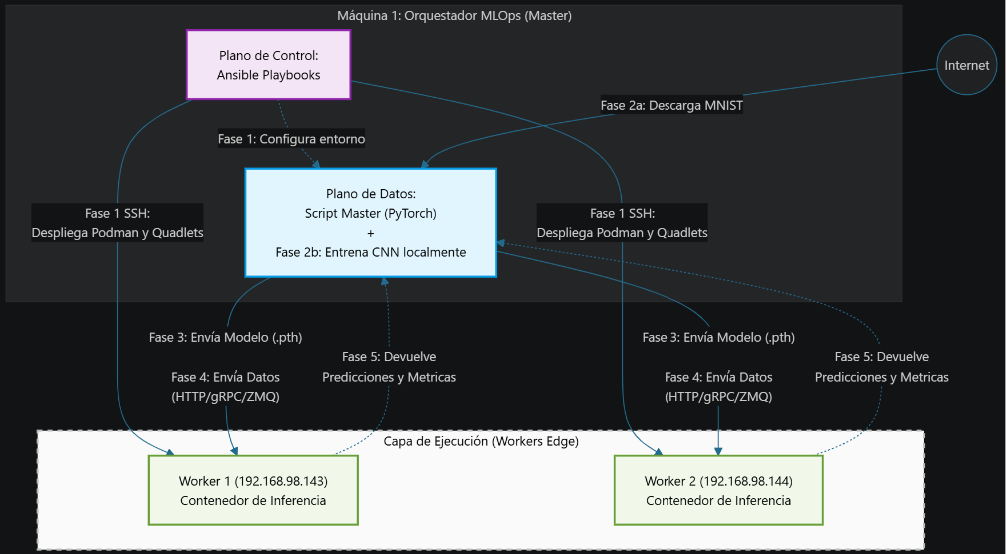
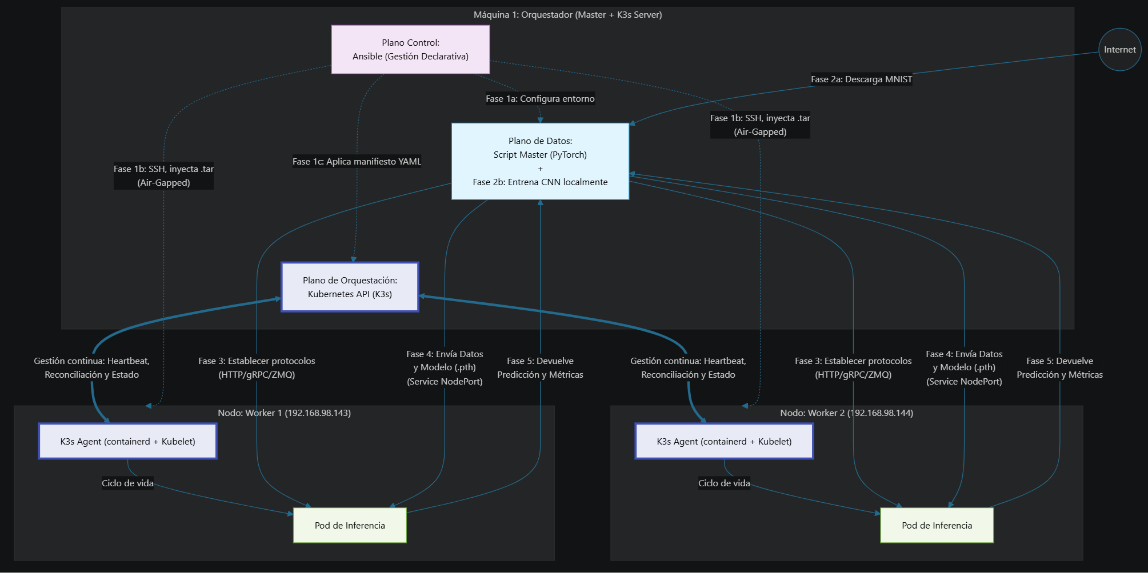
feat: add flowchart documentation for K3s orchestration and update existing flow diagrams

diff --git a/entrega-4/assets/flow.md b/entrega-4/assets/flow.md
@@ -2,9 +2,9 @@
 flowchart TD
     Internet((Internet))
 
-    subgraph Maquina1 ["Máquina 1: Orquestador MLOps (Master)"]
+    subgraph Maquina1 ["Máquina 1: Orquestador MLOps (Master K3s)"]
         direction TB
-        Ansible["Plano de Control:<br>Ansible Playbooks"]
+        Ansible["Plano de Control:<br>Ansible + kubectl API"]
         Padre["Plano de Datos: 
         Script Master (PyTorch) 
         + 
@@ -13,19 +13,26 @@ flowchart TD
         Ansible -. "Fase 1: Configura entorno" .-> Padre
     end
 
-    subgraph NodosEdge ["Capa de Ejecución (Workers Edge)"]
-        direction LR
-        Hijo1["Worker 1 (192.168.98.143)
-        Contenedor de Inferencia"]
-        Hijo2["Worker 2 (192.168.98.144)
-        Contenedor de Inferencia"]
+    subgraph NodosEdge ["Capa de Ejecución (Workers Edge K3s)"]
+        direction TB
+        K8sService{"Red Virtual CNI (Flannel)<br>Servicio K8s (NodePort 30000)"}
+        
+        subgraph Workers ["Nodos Físicos"]
+            direction LR
+            Hijo1["Node-a (192.168.98.143)
+            Pod de Inferencia (containerd)"]
+            Hijo2["Node-b (192.168.98.144)
+            Pod de Inferencia (containerd)"]
+        end
+        
+        K8sService --> Hijo1
+        K8sService --> Hijo2
     end
 
-    %% FASE 1: Aprovisionamiento
-    Ansible -- "Fase 1 SSH: 
-    Despliega Podman y Quadlets" --> Hijo1
-    Ansible -- "Fase 1 SSH: 
-    Despliega Podman y Quadlets" --> Hijo2
+    %% FASE 1: Aprovisionamiento K3s
+    Ansible -- "Fase 1 (Air-Gapped): 
+    Inyecta Imagen OCI (k3s ctr)
+    y Aplica Manifiestos YAML" --> Workers
 
     %% FASE 2: Dataset
     Internet -- "Fase 2a: Descarga MNIST" --> Padre
@@ -34,12 +41,7 @@ flowchart TD
     Padre -- "Fase 3: Envía Modelo (.pth)
 
     Fase 4: Envía Datos 
-    (HTTP/gRPC/ZMQ)" --> Hijo1
-
-    Padre -- "Fase 3: Envía Modelo (.pth)
-
-    Fase 4: Envía Datos 
-    (HTTP/gRPC/ZMQ)" --> Hijo2
+    (HTTP/gRPC/ZMQ)" --> K8sService
 
     %% FASE 5: FLUJO DE VUELTA (Línea Punteada para evitar colapso del motor)
     Hijo1 -. "Fase 5: Devuelve 
@@ -53,9 +55,11 @@ flowchart TD
     classDef datos fill:#e1f5fe,stroke:#039be5,stroke-width:2px,color:#000;
     classDef worker fill:#f1f8e9,stroke:#689f38,stroke-width:2px,color:#000;
     classDef edgeCapa fill:#fafafa,stroke:#bdbdbd,stroke-width:2px,stroke-dasharray: 5 5,color:#000;
+    classDef k8sService fill:#e3f2fd,stroke:#1565c0,stroke-width:2px,color:#000;
 
     class Ansible control;
     class Padre datos;
     class Hijo1,Hijo2 worker;
-    class NodosEdge edgeCapa;
+    class NodosEdge,Workers edgeCapa;
+    class K8sService k8sService;
 ```

diff --git a/entrega-4/assets/flow-v2.md b/entrega-4/assets/flow-v2.md
@@ -1,0 +1,59 @@
+``` mermaid
+flowchart TD
+    Internet((Internet))
+
+    subgraph Maquina1 ["Máquina 1: Orquestador (Master + K3s Server)"]
+        direction TB
+        Ansible["Plano Control:<br>Ansible (Gestión Declarativa)"]
+        KubeAPI["Plano de Orquestación:<br>Kubernetes API (K3s)"]
+        Padre["Plano de Datos:<br>Script Master (PyTorch)<br>+<br>Fase 2b: Entrena CNN localmente"]
+    end
+
+    Ansible ~~~ Padre
+    Padre ~~~ KubeAPI
+    
+
+    subgraph Worker2 ["Nodo: Worker 2 (192.168.98.144)"]
+        K3sB["K3s Agent (containerd + Kubelet)"]
+        Hijo2["Pod de Inferencia"]
+        K3sB -- "Ciclo de vida" --> Hijo2
+    end
+
+    subgraph Worker1 ["Nodo: Worker 1 (192.168.98.143)"]
+        K3sA["K3s Agent (containerd + Kubelet)"]
+        Hijo1["Pod de Inferencia"]
+        K3sA -- "Ciclo de vida" --> Hijo1
+    end
+
+    %% FASE 1: Aprovisionamiento (Ansible SIEMPRE discontinua)
+    Ansible -. "Fase 1a: Configura entorno" .-> Padre
+    Ansible -. "Fase 1b: SSH, inyecta .tar<br>(Air-Gapped)" .-> Worker1
+    Ansible -. "Fase 1b: SSH, inyecta .tar<br>(Air-Gapped)" .-> Worker2
+    Ansible -. "Fase 1c: Aplica manifiesto YAML" .-> KubeAPI
+
+    %% FASE DE ORQUESTACIÓN (Kubernetes activo)
+    KubeAPI <==>|Gestión continua: Heartbeat, <br>Reconciliación y Estado| K3sA
+    KubeAPI <==>|Gestión continua: Heartbeat, <br>Reconciliación y Estado| K3sB
+
+    %% FASE 2: Dataset
+    Internet -- "Fase 2a: Descarga MNIST" --> Padre
+
+    %% FASES 3: Establecer protocolos
+    Padre -- "Fase 3: Establecer protocolos<br>(HTTP/gRPC/ZMQ)" --> Hijo1
+    Padre -- "Fase 3: Establecer protocolos<br>(HTTP/gRPC/ZMQ)" --> Hijo2
+
+    %% FASES 4: Fujo de ida
+    Padre -- "Fase 4: Envía Datos<br>y Modelo (.pth)<br>(Service NodePort)" --> Hijo1
+    Padre -- "Fase 4: Envía Datos<br>y Modelo (.pth)<br>(Service NodePort)" --> Hijo2
+
+    %% FASES 5: Fujo de vuelta
+    Hijo1 -- "Fase 5: Devuelve<br>Predicción y Métricas" --> Padre
+    Hijo2 -- "Fase 5: Devuelve<br>Predicción y Métricas" --> Padre
+
+    %% Estilos
+    classDef control fill:#f3e5f5,stroke:#8e24aa,color:#000;
+    classDef datos fill:#e1f5fe,stroke:#039be5,color:#000;
+    classDef worker fill:#f1f8e9,stroke:#689f38,color:#000;
+    classDef kube fill:#e8eaf6,stroke:#3f51b5,stroke-width:3px,color:#000;
+    class Ansible control; class Padre datos; class Hijo1,Hijo2 worker; class KubeAPI,K3sA,K3sB kube;
+```

diff --git a/entrega-3/assets/flow-v2.md b/entrega-3/assets/flow-v2.md
@@ -1,0 +1,57 @@
+``` mermaid
+flowchart TD
+    Internet((Internet))
+
+    subgraph Maquina1 ["Máquina 1: Orquestador (Master)"]
+        direction TB
+        Ansible["Plano Control:<br>Ansible (Gestión Imperativa)"]
+        
+        Padre["Plano de Datos: 
+        Script Master (PyTorch) 
+        + 
+        Fase 2b: Entrena CNN localmente"]
+    end
+
+    Padre ~~~ NodeA
+    Padre ~~~ NodeB
+
+    subgraph NodeB ["Nodo Worker 2: 192.168.98.144"]
+        Sys1(("Systemd<br>(Gestor Local)"))
+        Hijo2["Contenedor Podman"]
+        Sys1 -- "Ciclo de vida<br>(Local)" --> Hijo2
+    end
+    
+    subgraph NodeA ["Nodo Worker 1: 192.168.98.143"]
+        Sys2(("Systemd<br>(Gestor Local)"))
+        Hijo1["Contenedor Podman"]
+        Sys2 -- "Ciclo de vida<br>(Local)" --> Hijo1
+    end
+
+
+    %% FASE 1: Aprovisionamiento
+    Ansible -. "Fase 1a: Configura entorno" .-> Padre
+    Ansible -. "Fase 1b SSH:<br> Despliega Podman y Quadlets" .-> NodeB
+    Ansible -. "Fase 1b SSH:<br> Despliega Podman y Quadlets" .-> NodeA
+
+    %% FASE 2: Modelo IA
+    Internet -- "Fase 2a: Descarga MNIST" --> Padre
+
+    %% FASES 3: Establecer protocolos
+    Padre -- "Fase 3: Establecer protocolos<br>(HTTP/gRPC/ZMQ)" --> Hijo2
+    Padre -- "Fase 3: Establecer protocolos<br>(HTTP/gRPC/ZMQ)" --> Hijo1
+
+    %% FASES 4: Fujo de ida
+    Padre -- "Fase 4: Envía Datos<br>y Modelo (.pth)" --> Hijo2
+    Padre -- "Fase 4: Envía Datos<br>y Modelo (.pth)" --> Hijo1
+
+    %% FASES 5: Fujo de vuelta
+    Hijo2 -- "Fase 5: Devuelve<br>Predicción y Métricas" --> Padre
+    Hijo1 -- "Fase 5: Devuelve<br>Predicción y Métricas" --> Padre
+
+    classDef control fill:#f3e5f5,stroke:#8e24aa,color:#000;
+    classDef datos fill:#e1f5fe,stroke:#039be5,color:#000;
+    classDef worker fill:#f1f8e9,stroke:#689f38,color:#000;
+    classDef sys fill:#fff9c4,stroke:#fbc02d,color:#000;
+    class Ansible control; class Padre datos; class Hijo1,Hijo2 worker; class Sys1,Sys2 sys;
+    
+```

diff --git a/entrega-3/assets/flow.md b/entrega-3/assets/flow.md
@@ -24,6 +24,7 @@ flowchart TD
     %% FASE 1: Aprovisionamiento
     Ansible -- "Fase 1 SSH: 
     Despliega Podman y Quadlets" --> Hijo1
+    
     Ansible -- "Fase 1 SSH: 
     Despliega Podman y Quadlets" --> Hijo2
 
